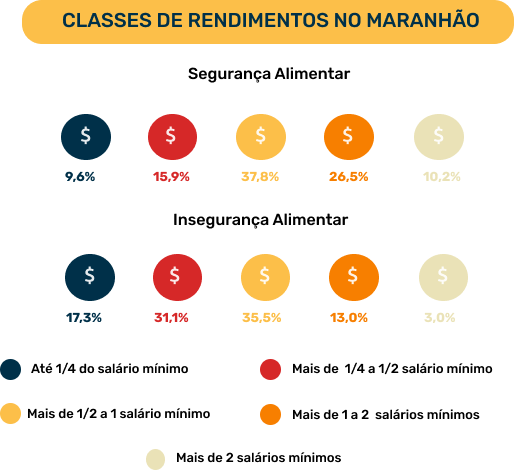
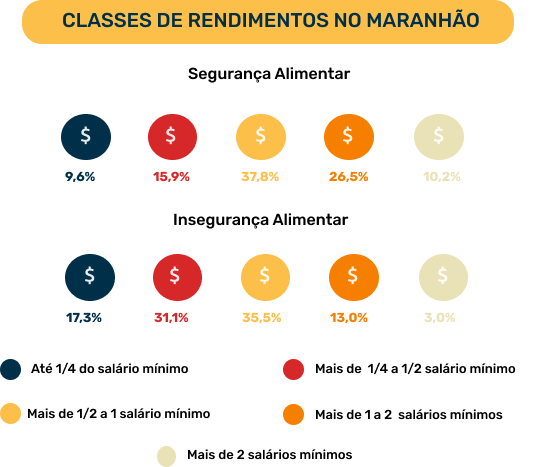
Correção imagens maranhão rendimentos e cor

diff --git a/assets/css/maranhao/maranhao.css b/assets/css/maranhao/maranhao.css
@@ -26,7 +26,7 @@
 }
 
 .rendimentoCor__dados {
-  width: 43%;
+  width: 47%;
   text-align: center;
   display: flex;
   flex-direction: column;
